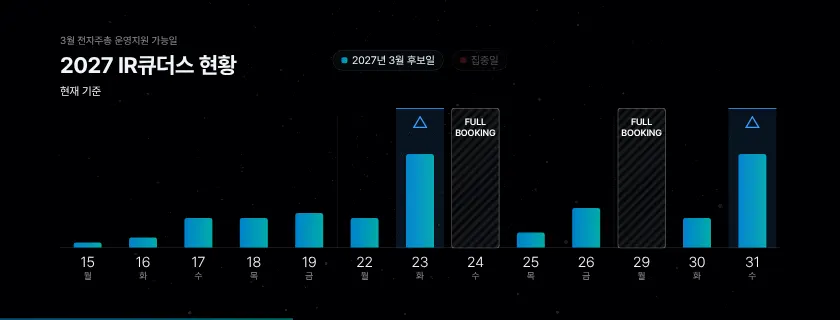
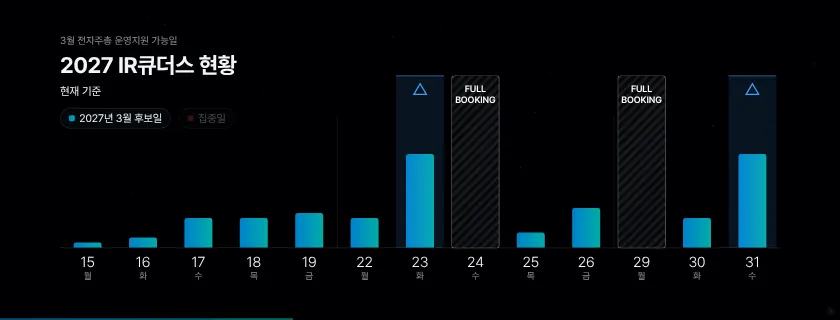
session4 K11: 범례를 왼쪽 글 아래로, FULL BOOKING · △ 칸 높이를 2027 막대 최고점까지. K15 박스 안 글자 위로(박스 그대로)
Claude-Session: https://claude.ai/code/session_01Mn7NmyW5iujmmHnaRBFKBZ

diff --git a/sw.js b/sw.js
@@ -1,5 +1,5 @@
 /* 오프라인 캐시 — 온라인 주소(https)로 한 번 열면 모든 파일을 저장해 두고, 통신이 끊겨도 저장본으로 동작합니다. */
-const V='seminar-screen-11262008';
+const V='seminar-screen-11262012';
 const FILES=["./","assets/KakaoBigSans-Bold.woff2","assets/KakaoBigSans-Regular.woff2","assets/KakaoSmallSans-Bold.woff2","assets/KakaoSmallSans-Light.woff2","assets/KakaoSmallSans-Regular.woff2","assets/OrbitControls.js","assets/PretendardVariable.woff2","assets/attendees.js","assets/blue-bloom.html","assets/cong1.webp","assets/cong2.webp","assets/ds-bg.html","assets/four-states.html","assets/intro.mp4","assets/irk-white.svg","assets/irk-wordmark-white.svg","assets/kism-intro.mp4","assets/kism-white.svg","assets/ksmp-white.svg","assets/panel.js","assets/qa-online.js","assets/s2/img1.png","assets/s2/img2.png","assets/s2/img3.png","assets/s2/img4.png","assets/s4/aws.webp","assets/s4/callcenter.webp","assets/s4/chair-1.webp","assets/s4/chair-2.webp","assets/s4/chair-3.webp","assets/s4/conexus-word.webp","assets/s4/ctl-1.webp","assets/s4/cx-1.webp","assets/s4/cx-2.webp","assets/s4/cx-3.webp","assets/s4/cx-flow.mp4","assets/s4/cx-pop1.webp","assets/s4/cx-pop2.webp","assets/s4/cx-vote.mp4","assets/s4/cx-vote.webp","assets/s4/cxs-1.webp","assets/s4/insurance.webp","assets/s4/isms-t.webp","assets/s4/isms.webp","assets/s4/ismsp-t.webp","assets/s4/ismsp.webp","assets/s4/kosmos-white.png","assets/s4/ks-1.webp","assets/s4/ks-2.webp","assets/s4/ks-3.webp","assets/s4/ks-4.webp","assets/s4/ks-5.webp","assets/s4/ks-video.webp","assets/s4/live-1.webp","assets/s4/live-2.webp","assets/s4/live-3.webp","assets/s4/live-4.webp","assets/s4/live-5.webp","assets/s4/live-6.webp","assets/s4/live-7.webp","assets/s4/live-8.webp","assets/s4/logos.webp","assets/s4/ocr-1.webp","assets/s4/ocr-2.webp","assets/s4/ocr-3.webp","assets/s4/ocr-4.webp","assets/s4/ocr-5.webp","assets/s4/on-1.png","assets/s4/on-2.webp","assets/s4/on-3.webp","assets/s4/on-4.png","assets/s4/on-5.webp","assets/s4/onboard-1.webp","assets/s4/onboard-2.webp","assets/s4/privacy.webp","assets/s4/proxymity.svg","assets/s4/rehearsal.webp","assets/s4/streaming-korea.webp","assets/s4/tab-1.webp","assets/s4/tab-2.webp","assets/s4/team.webp","assets/sched.js","assets/screen-title-2.svg","assets/screen-title-b-text.svg","assets/screen-title-b.svg","assets/seat-banners.js","assets/seat-fascia.js","assets/seat-screen.js","assets/seatmap.js","assets/service-intro.mp4","assets/speaker-scott.webp","assets/speaker1-1.webp","assets/speaker2.webp","assets/speaker3-1.webp","assets/supabase.min.js","assets/three.min.js","assets/title-logos.svg","control.html","index-fs.html","index.html","kism.html","lobby/cuts.html","lobby/index.html","mc.html","session2.html","session4.html","sw.js","tools/s2_build.py","tools/s2_shell.html","assets/s3/p01.webp","assets/s3/p02.webp","assets/s3/p03.webp","assets/s3/p04.webp","assets/s3/p05.webp","assets/s3/p06.webp","assets/s3/p07.webp","assets/s3/p08.webp","assets/s3/p09.webp","assets/s3/p10.webp","assets/s3/p11.webp","assets/s3/p12.webp","assets/s3/p13.webp","assets/s3/p14.webp","assets/s3/p15.webp","assets/s3/p16.webp","assets/s3/p17.webp","assets/s3/p18.webp","assets/s3/p19.webp","assets/s3/p20.webp","assets/s3/p21.webp","assets/s3/p22.webp","assets/s3/p23.webp","assets/kism/photo-main.webp","assets/kism/photo-2.webp","assets/kism/photo-3.webp","assets/kism/photo-4.webp","assets/sound/countdown-tick.mp3","assets/sound/sfx-s3-part.mp3","assets/sound/sfx-s4-reveal.mp3","assets/sound/sfx-s5-proxymity.mp3","assets/sound/sfx-s6-chime.mp3","assets/sound/sfx-s7-close.mp3","assets/sound/opening-hit.mp3","assets/s4/kosmos-color.svg","assets/s4/ke-logo.png","assets/s4/ke-live.mp4","assets/kism/kwon-talk.mp4","assets/kism/manual-book.webp","kism-open.html","kism_16x9.html","led.html","assets/s4/cx-ops.mp4","assets/s4/cx-ops.webp","assets/s4/agent-app.mp4","assets/s4/agent-app.webp","assets/s4/k24b-bg.webp","session0.html","assets/kism/photo-main-cut.webp","assets/s4/cx-chair.mp4","assets/s4/cx-chair.webp","assets/s4/cx-test.mp4","assets/s4/cx-test.webp","assets/s4/onboard-mgr.webp","assets/s4/proxymity-logo.png","assets/s4/k21-bg.webp","assets/s4/kosmos-admin-white.svg","assets/kism-intro-16x9.mp4","assets/seat-guide.html","assets/s4/app-icon-agent.svg","assets/ds-main.mp4","assets/s4/k2-agency.webp","assets/s4/k2-support.webp","assets/s4/thumbs/K00.webp","assets/s4/thumbs/K01.webp","assets/s4/thumbs/K02.webp","assets/s4/thumbs/K03.webp","assets/s4/thumbs/K04.webp","assets/s4/thumbs/K05.webp","assets/s4/thumbs/K06.webp","assets/s4/thumbs/K07.webp","assets/s4/thumbs/K08.webp","assets/s4/thumbs/K09.webp","assets/s4/thumbs/K10.webp","assets/s4/thumbs/K11.webp","assets/s4/thumbs/K12.webp","assets/s4/thumbs/K13.webp","assets/s4/thumbs/K14.webp","assets/s4/thumbs/K15.webp","assets/s4/thumbs/K16.webp","assets/s4/thumbs/K17.webp","assets/s4/thumbs/K18a.webp","assets/s4/thumbs/K18b.webp","assets/s4/thumbs/K18c.webp","assets/s4/thumbs/K19.webp","assets/s4/thumbs/K19b.webp","assets/s4/thumbs/K20.webp","assets/s4/thumbs/K21.webp","assets/s4/thumbs/K21b.webp","assets/s4/thumbs/K22s.webp","assets/s4/thumbs/K23.webp","assets/s4/thumbs/K23b.webp","assets/s4/thumbs/K24a.webp","assets/s4/thumbs/K24b.webp","assets/s4/thumbs/K24c.webp","assets/s4/thumbs/K25.webp","assets/s4/thumbs/K25b.webp","assets/s4/thumbs/K26.webp","assets/s4/thumbs/K27.webp","assets/s4/thumbs/K28a.webp","assets/s4/thumbs/K28b.webp","assets/s4/thumbs/K28c.webp","assets/s4/thumbs/K28d.webp","assets/s4/thumbs/K29.webp","assets/s4/thumbs/K30.webp","assets/s4/thumbs/K09b.webp","assets/s4/thumbs/K28e.webp"];
 self.addEventListener('install',e=>{e.waitUntil(caches.open(V).then(c=>c.addAll(FILES)).then(()=>self.skipWaiting()));});
 self.addEventListener('activate',e=>{e.waitUntil(caches.keys().then(ks=>Promise.all(ks.filter(k=>k!==V).map(k=>caches.delete(k)))).then(()=>self.clients.claim()));});

diff --git a/session4.html b/session4.html
@@ -1697,6 +1697,10 @@ body:not(.idle) #sgb{opacity:.9}body.grid #sgb{opacity:0;pointer-events:none}
 #K14 .tr{height:330px!important}
 #K14 .chip.ir{background:linear-gradient(100deg,#bfe9ff 0%,#9fd8ff 11%,#d9ccff 23%,#b8f3e6 36%,#e8fbff 50%,#bfe9ff 61%,#9fd8ff 72%,#d9ccff 84%,#b8f3e6 100%);background-size:200% 100%;animation:k14ir 6s linear infinite}
 @keyframes k14ir{from{background-position:0% 50%}to{background-position:-200% 50%}}
+/* 11/26 20:10 K11: 범례를 왼쪽 글 아래로, FULL BOOKING · △ 칸 높이를 2027 막대 최고점까지 */
+#K11 .lg{top:540px!important;justify-content:flex-start!important}
+#K11 .full,#K11 .tri{top:-163px}
+#K15 .col:not(.hl){padding-top:100px}#K15 .col.hl{padding-top:200px}  /* 11/26 20:11 박스 안 글자 위로(박스 그대로) */
 </style></head>
 <body>
 <div class="stage" id="stage">
